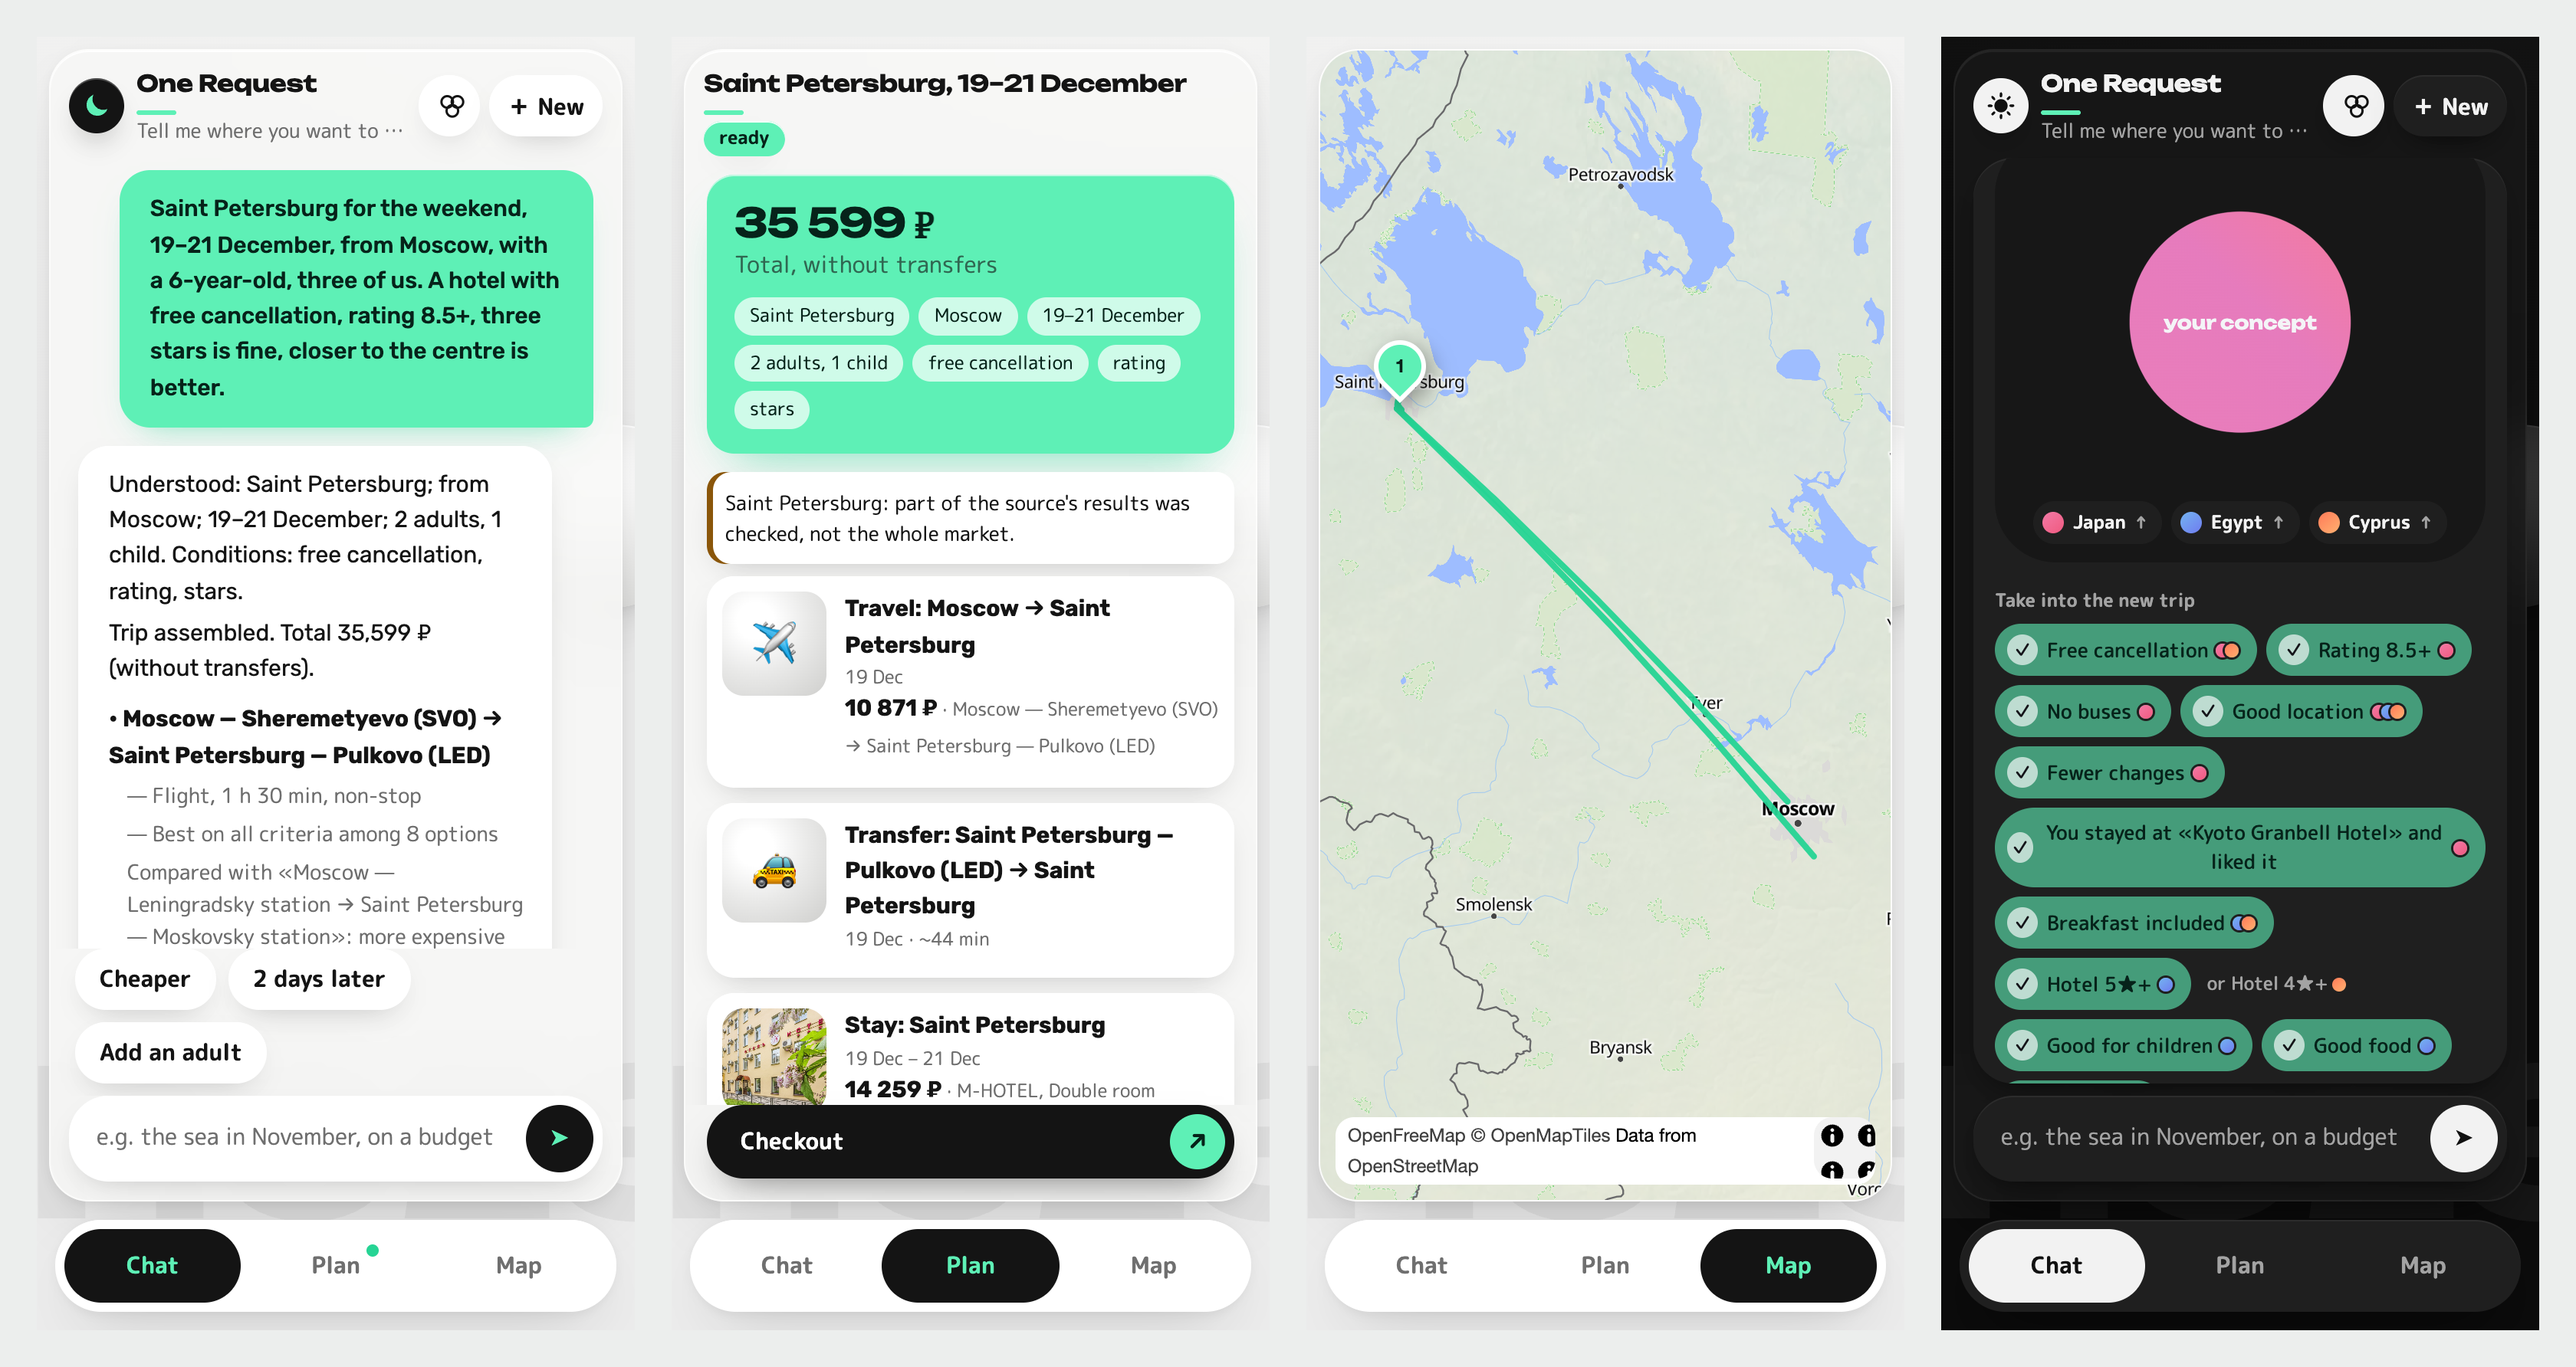
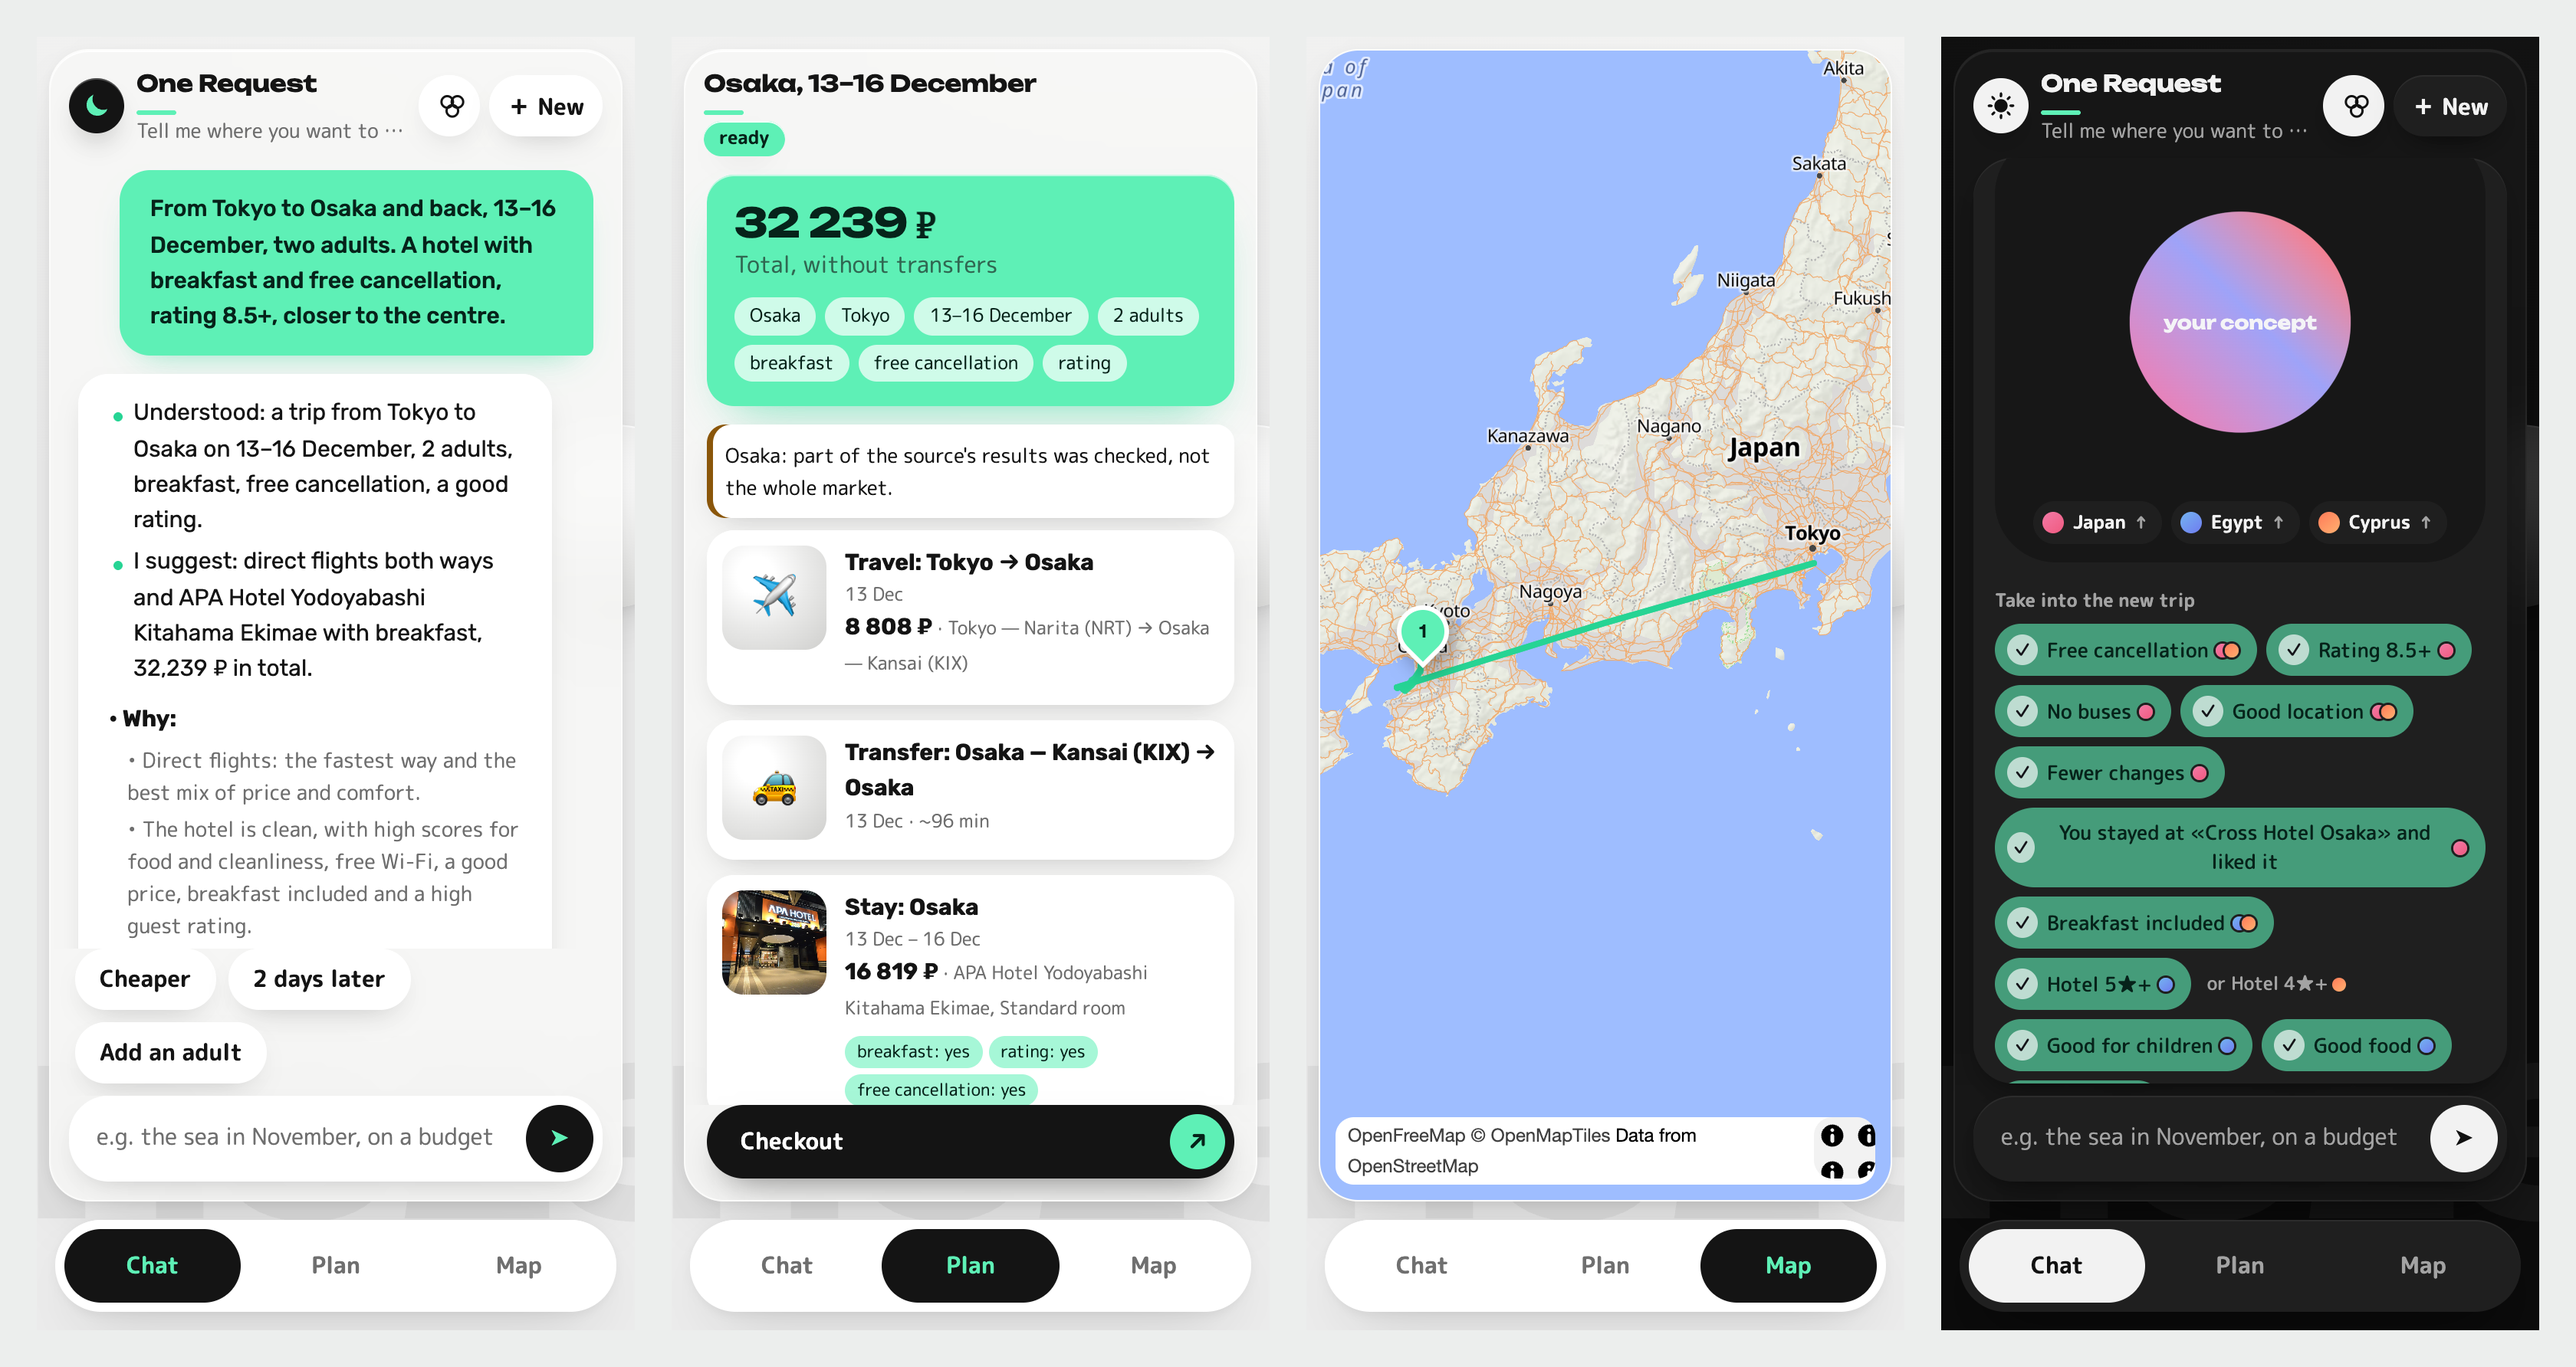
Screenshots without Russian places; a smooth blend GIF
The main demo trip was Moscow to Saint Petersburg. It is now a live plan
inside Japan: Tokyo to Osaka and back, flights, airport transfers and a hotel
from Tutu. The hotel card and the phone set use the same trip, and two of the
README's example requests are replaced by foreign ones, both checked against
the live agent. Facts that name Russian cities stay: the default time zone,
the eval scenarios and the bugs found in them.

The old GIF was recorded at half resolution and about eight frames a second,
with a palette built from its last frame, so the blue drop came out grey and
the merge itself was skipped. It is now recorded in five times slow motion
(the page's clocks and the animation timeline both slowed), played back at
real speed, about 25 frames a second, with one dithered palette built from
frames across the whole recording.

diff --git a/README.md b/README.md
@@ -235,11 +235,12 @@ make seed USER_ID=<user uuid>        # the id is in the users table or in the PO
 
 The requests are in Russian, the product's language; the translation is in brackets.
 
-1. «Найди отели в Москве на 6-9 ноября для двух взрослых, завтрак и бесплатная отмена, до 30 000 за всё проживание» (hotels in Moscow for two adults, breakfast and free cancellation, up to 30,000 for the whole stay) — no questions, with "why" and "what was traded off".
-2. «Хочу в Питер на выходные» (Saint Petersburg for the weekend) → one question (from where, how many of you) → legs, transfers, a hotel.
-3. «К тёплому морю в ноябре, недорого, с ребёнком, без долгих перелётов» (a warm sea in November, cheap, with a child, no long flights) → three destinations with climate, travel time and price → a choice → a plan.
-4. Re-planning: «сделай дешевле» (cheaper), «на два дня позже» (two days later), «с нами едет собака» (the dog is coming), «нас будет четверо» (there will be four of us), «оставь этот отель» (keep this hotel).
-5. «Оформить» (Checkout) → price re-check → the form → simulated payment → order `EKV-…`.
+1. «Найди отели в Токио и Осаке на 10–16 декабря для двух взрослых, завтрак и бесплатная отмена, рейтинг от 8.5» (hotels in Tokyo and Osaka for two adults, breakfast and free cancellation, rating 8.5+) — no questions, with "why" and "what was traded off".
+2. «Хочу на Кипр на выходные» (Cyprus for the weekend) → one batch of questions (from where, how many of you; "hotel only" is one of the options) → a plan.
+3. «Из Токио в Осаку и обратно, 13–16 декабря, двое взрослых. Отель с завтраком и бесплатной отменой, рейтинг от 8.5, ближе к центру.» (from Tokyo to Osaka and back, two adults, a hotel with breakfast and free cancellation) — flights both ways, airport transfers and a hotel; the trip in the screenshots above.
+4. «К тёплому морю в ноябре, недорого, с ребёнком, без долгих перелётов» (a warm sea in November, cheap, with a child, no long flights) → three destinations with climate, travel time and price → a choice → a plan.
+5. Re-planning: «сделай дешевле» (cheaper), «на два дня позже» (two days later), «с нами едет собака» (the dog is coming), «нас будет четверо» (there will be four of us), «оставь этот отель» (keep this hotel).
+6. «Оформить» (Checkout) → price re-check → the form → simulated payment → order `EKV-…`.
 
 ### Telegram (optional)
 
